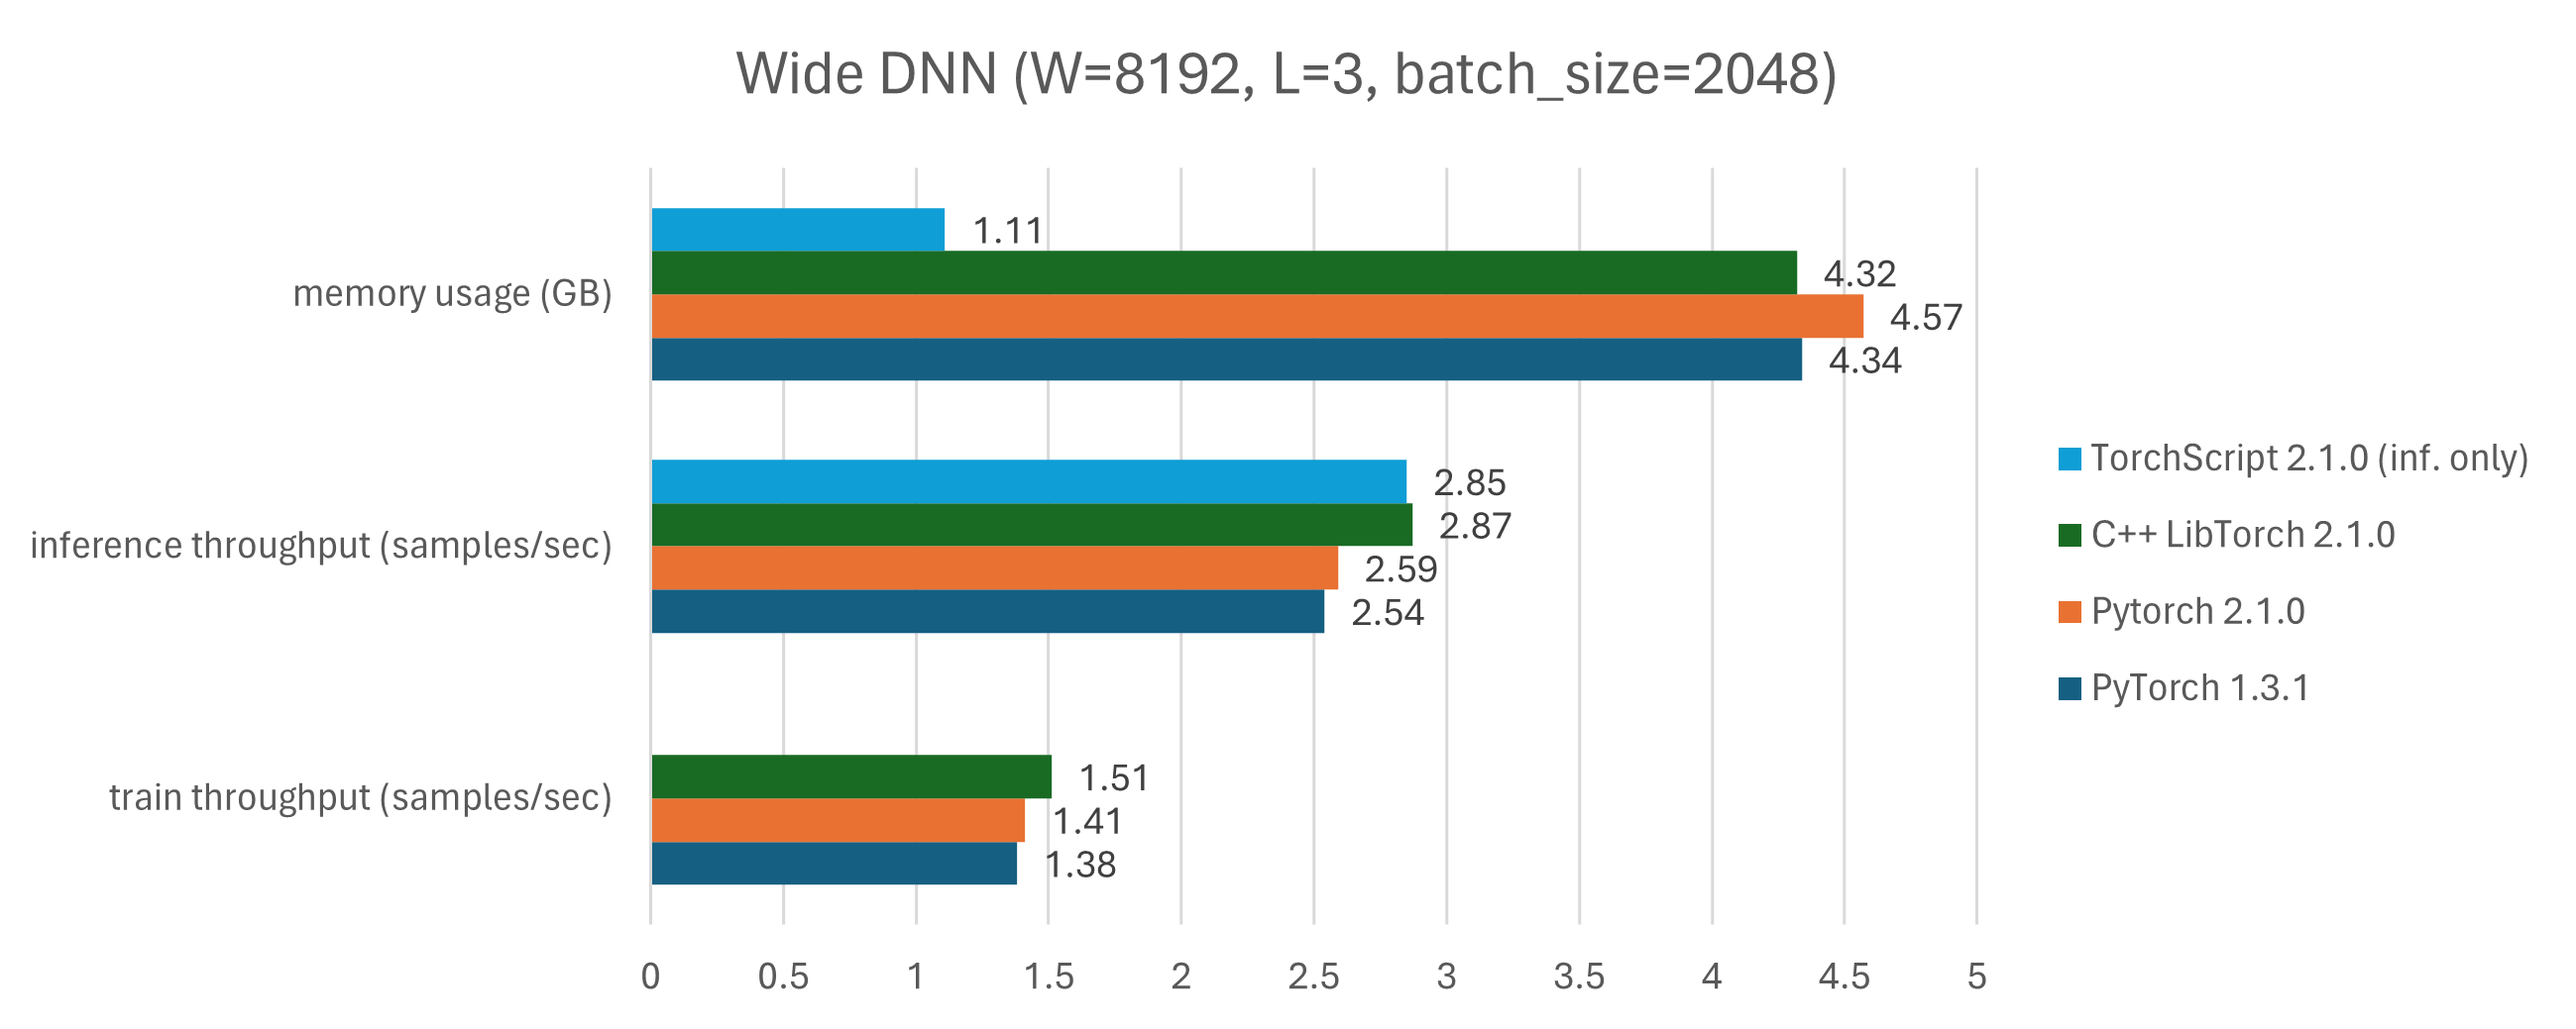
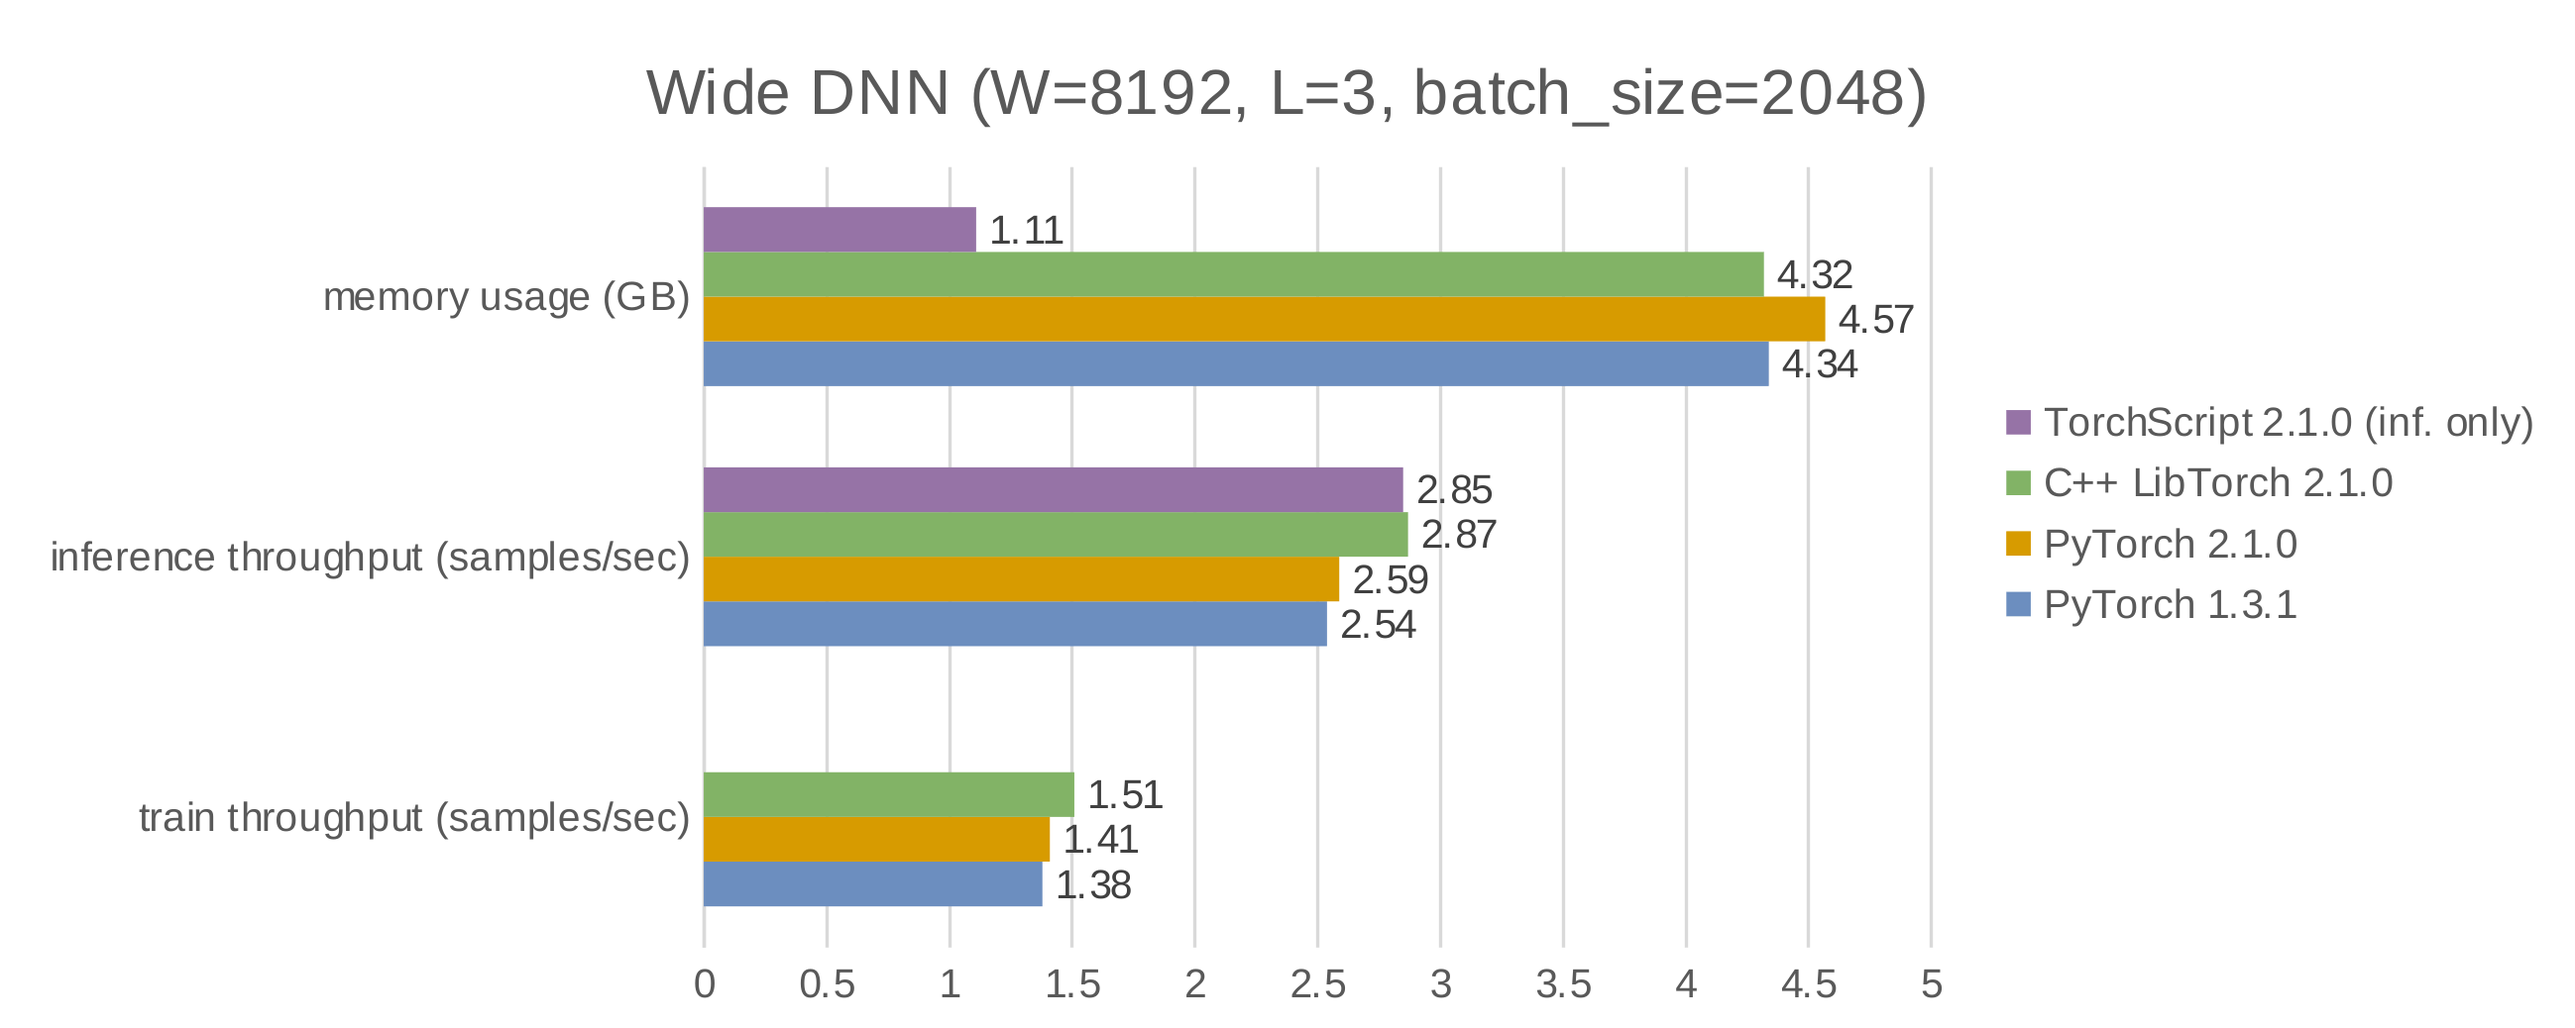
Recolor the gptlite-cpp benchmark charts with the site palette
- benchmark.xlsx: the bars of the three charts use the site's blue,
  orange, green and purple, the charts use Helvetica, and the legend
  says PyTorch 2.1.0.
- benchmark_gptlite, benchmark_wide and benchmark_deep are exported from
  the xlsx again, and the post names the new bar colors.

Claude-Session: https://claude.ai/code/session_01Xf6bJex2do3LmU6gkADKZ3

diff --git a/_posts/2023-06-27-gptlite-cpp.md b/_posts/2023-06-27-gptlite-cpp.md
@@ -499,9 +499,9 @@ The results for the GPTlite model are the following:
 {: style="text-align:center; font-size: small;"}
 <img width="90%" height="90%" src="{{ site.assets }}/gptlite-cpp/benchmark_gptlite.png"/>
 
-The results for the benchmark models are in <a href="{{ site.assets }}/gptlite-cpp/benchmark_wide.png">benchmark_wide.png</a> and <a href="{{ site.assets }}/gptlite-cpp/benchmark_deep.png">benchmark_deep.png</a>. Looking at the GPU memory usage, we see a much smaller memory requirement for inference-only runs (light blue bars) compared to runs that performed train and inference (navy blue, orange, and green bars). This is expected, due to the extra parameters and optimizer values required for training. Training leads to an increase in memory in the order of 4x to 10x.  
+The results for the benchmark models are in <a href="{{ site.assets }}/gptlite-cpp/benchmark_wide.png">benchmark_wide.png</a> and <a href="{{ site.assets }}/gptlite-cpp/benchmark_deep.png">benchmark_deep.png</a>. Looking at the GPU memory usage, we see a much smaller memory requirement for inference-only runs (purple bars) compared to runs that performed train and inference (blue, orange, and green bars). This is expected, due to the extra parameters and optimizer values required for training. Training leads to an increase in memory in the order of 4x to 10x.  
 
-Looking at the overall performance, there is a gain of up to 15% in throughput when moving from PyTorch 1.3.1 to 2.1.2 (navy blue to orange bars). There is also a small throughput increase of up to 10% when moving from PyTorch 2.1.2 to its C++ LibTorch equivalent (from orange to green bars), explained by the Python overhead (runtime, dynamic typing, etc.). Finally, the difference in inference performance between the pure C++ implementation and the TorchScript implementation (train in Python, inference in C++) is negligible, which means that TorchScript does a pretty good job at (de)serializing the model.
+Looking at the overall performance, there is a gain of up to 15% in throughput when moving from PyTorch 1.3.1 to 2.1.2 (blue to orange bars). There is also a small throughput increase of up to 10% when moving from PyTorch 2.1.2 to its C++ LibTorch equivalent (from orange to green bars), explained by the Python overhead (runtime, dynamic typing, etc.). Finally, the difference in inference performance between the pure C++ implementation and the TorchScript implementation (train in Python, inference in C++) is negligible, which means that TorchScript does a pretty good job at (de)serializing the model.
 
 We also tested the speed-up gains from using `torch.compile` on our GPTlite model. The base case without `torch.compile` performs the PyTorch-based training at a throughput of 1.41 samples/sec and inference at 4.28 samples/second. Let's compare it with the same model compiled in different modes and with(out) a full graph:
 
